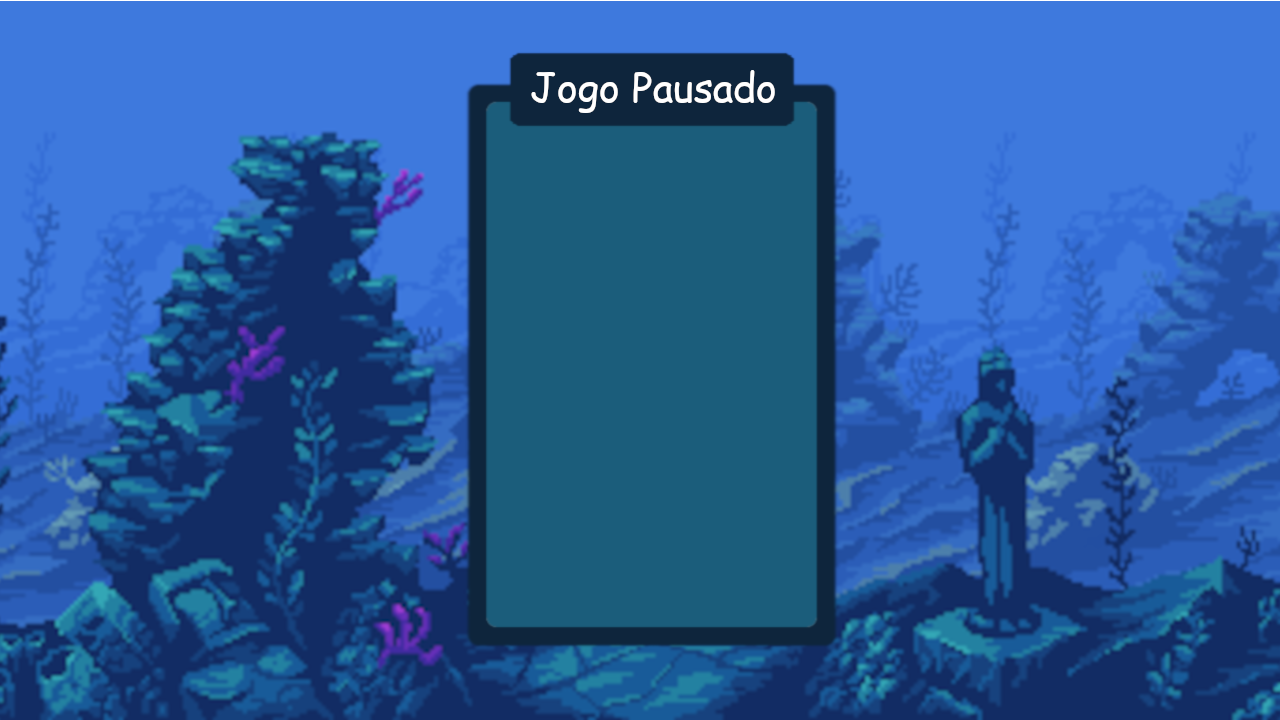
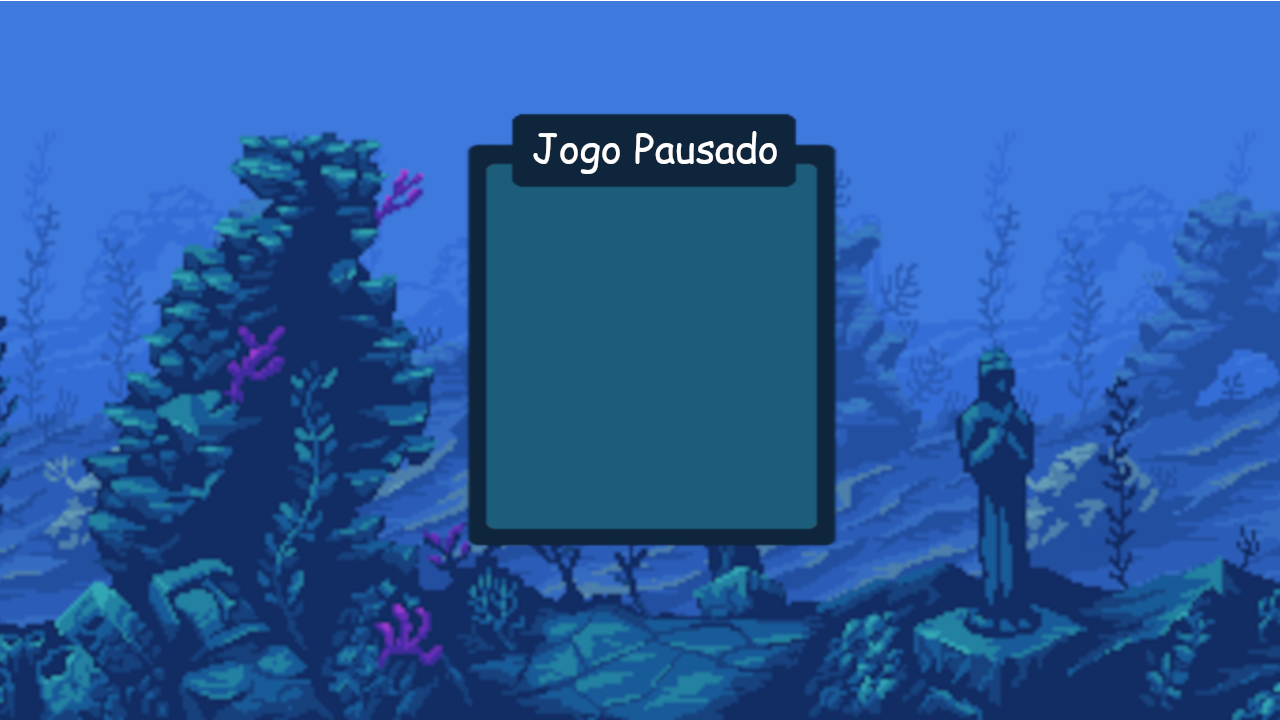
Menu de pausa modificado

Changed region(s): [[0.3438, 0.0611, 0.6562, 0.275], [0.3438, 0.7333, 0.6562, 0.9167]]

diff --git a/versao_final/PauseMenuInterface.py b/versao_final/PauseMenuInterface.py
@@ -14,11 +14,8 @@ class PauseMenuInterface(Interface):
         self.__background = pygame.image.load(
             f"backgrounds/pause_menu_background.png"
         )
-        self.__buttons_list = [ContinueButton(653, 190, "Continuar"), 
-                            OptionsButton(653, 282, "Opções"),
-                            ControlsButton(653, 374, "Controles"),
-                            RankingButton(653, 466, "Ranking"),
-                            ToMenuButton(653, 558, "Menu Principal")]
+        self.__buttons_list = [ContinueButton(653, 280, "Continuar"),
+                            ToMenuButton(653, 420, "Menu Principal")]
 
     @property
     def background(self):
